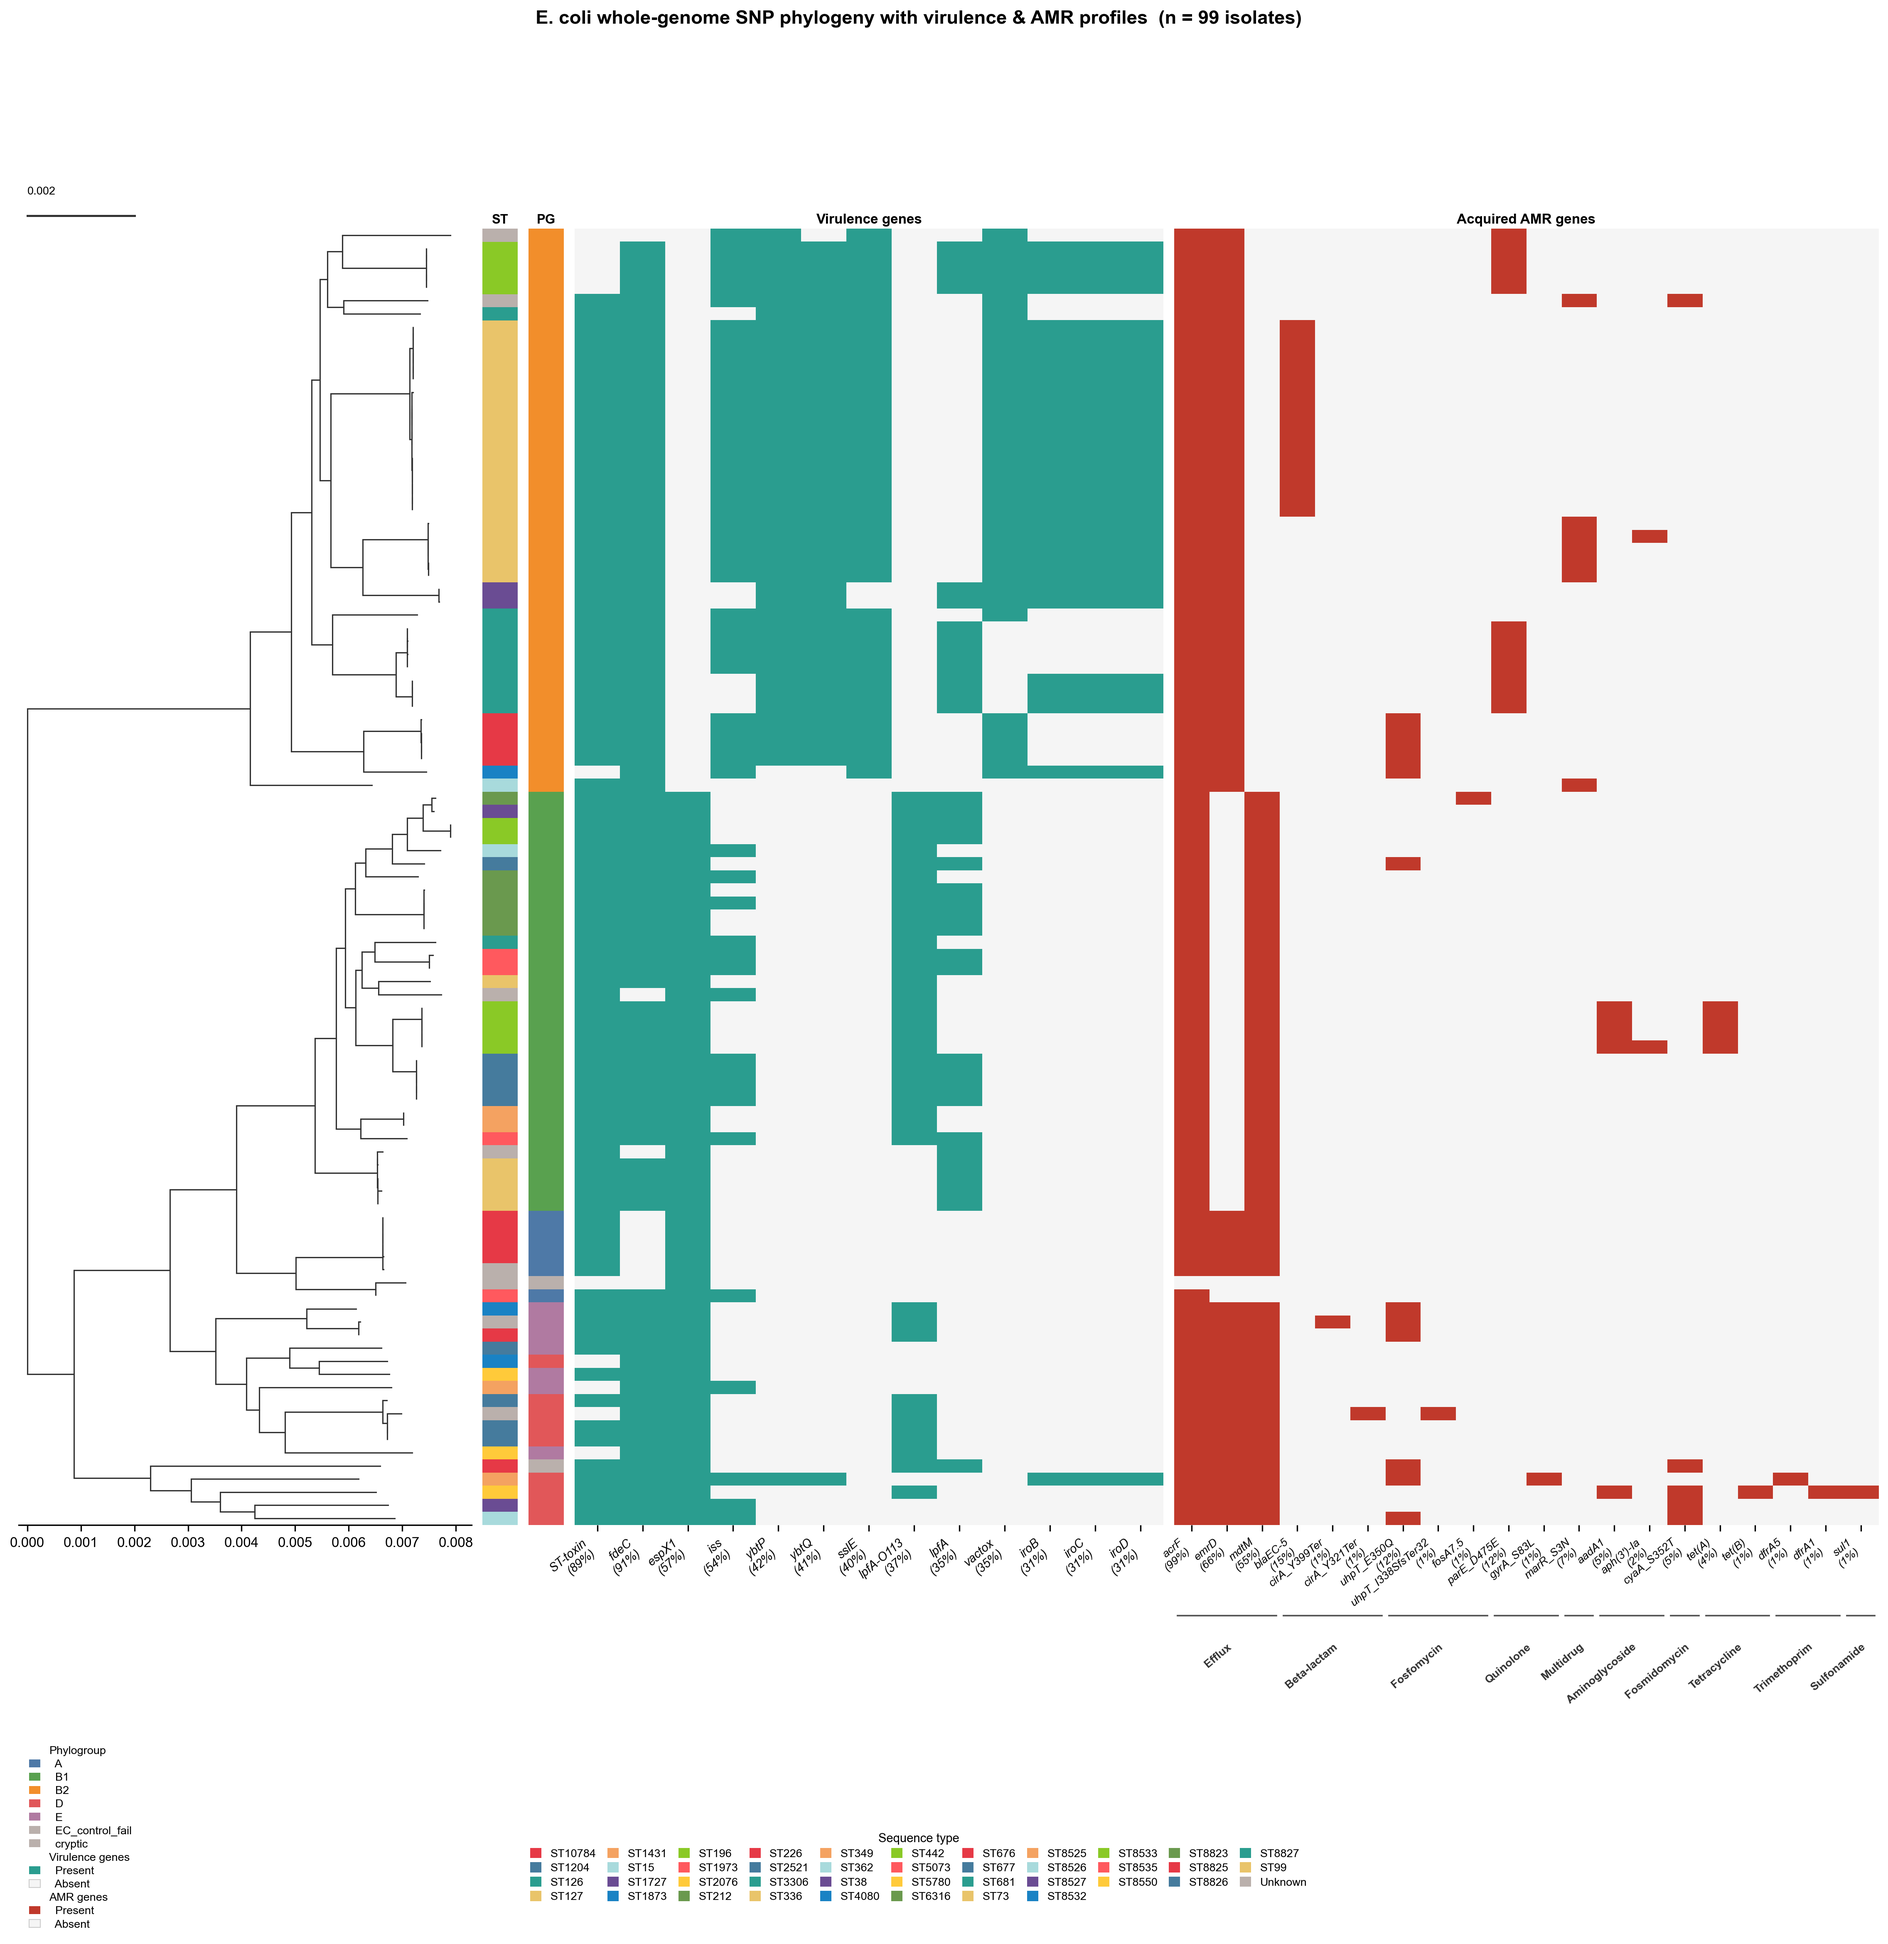
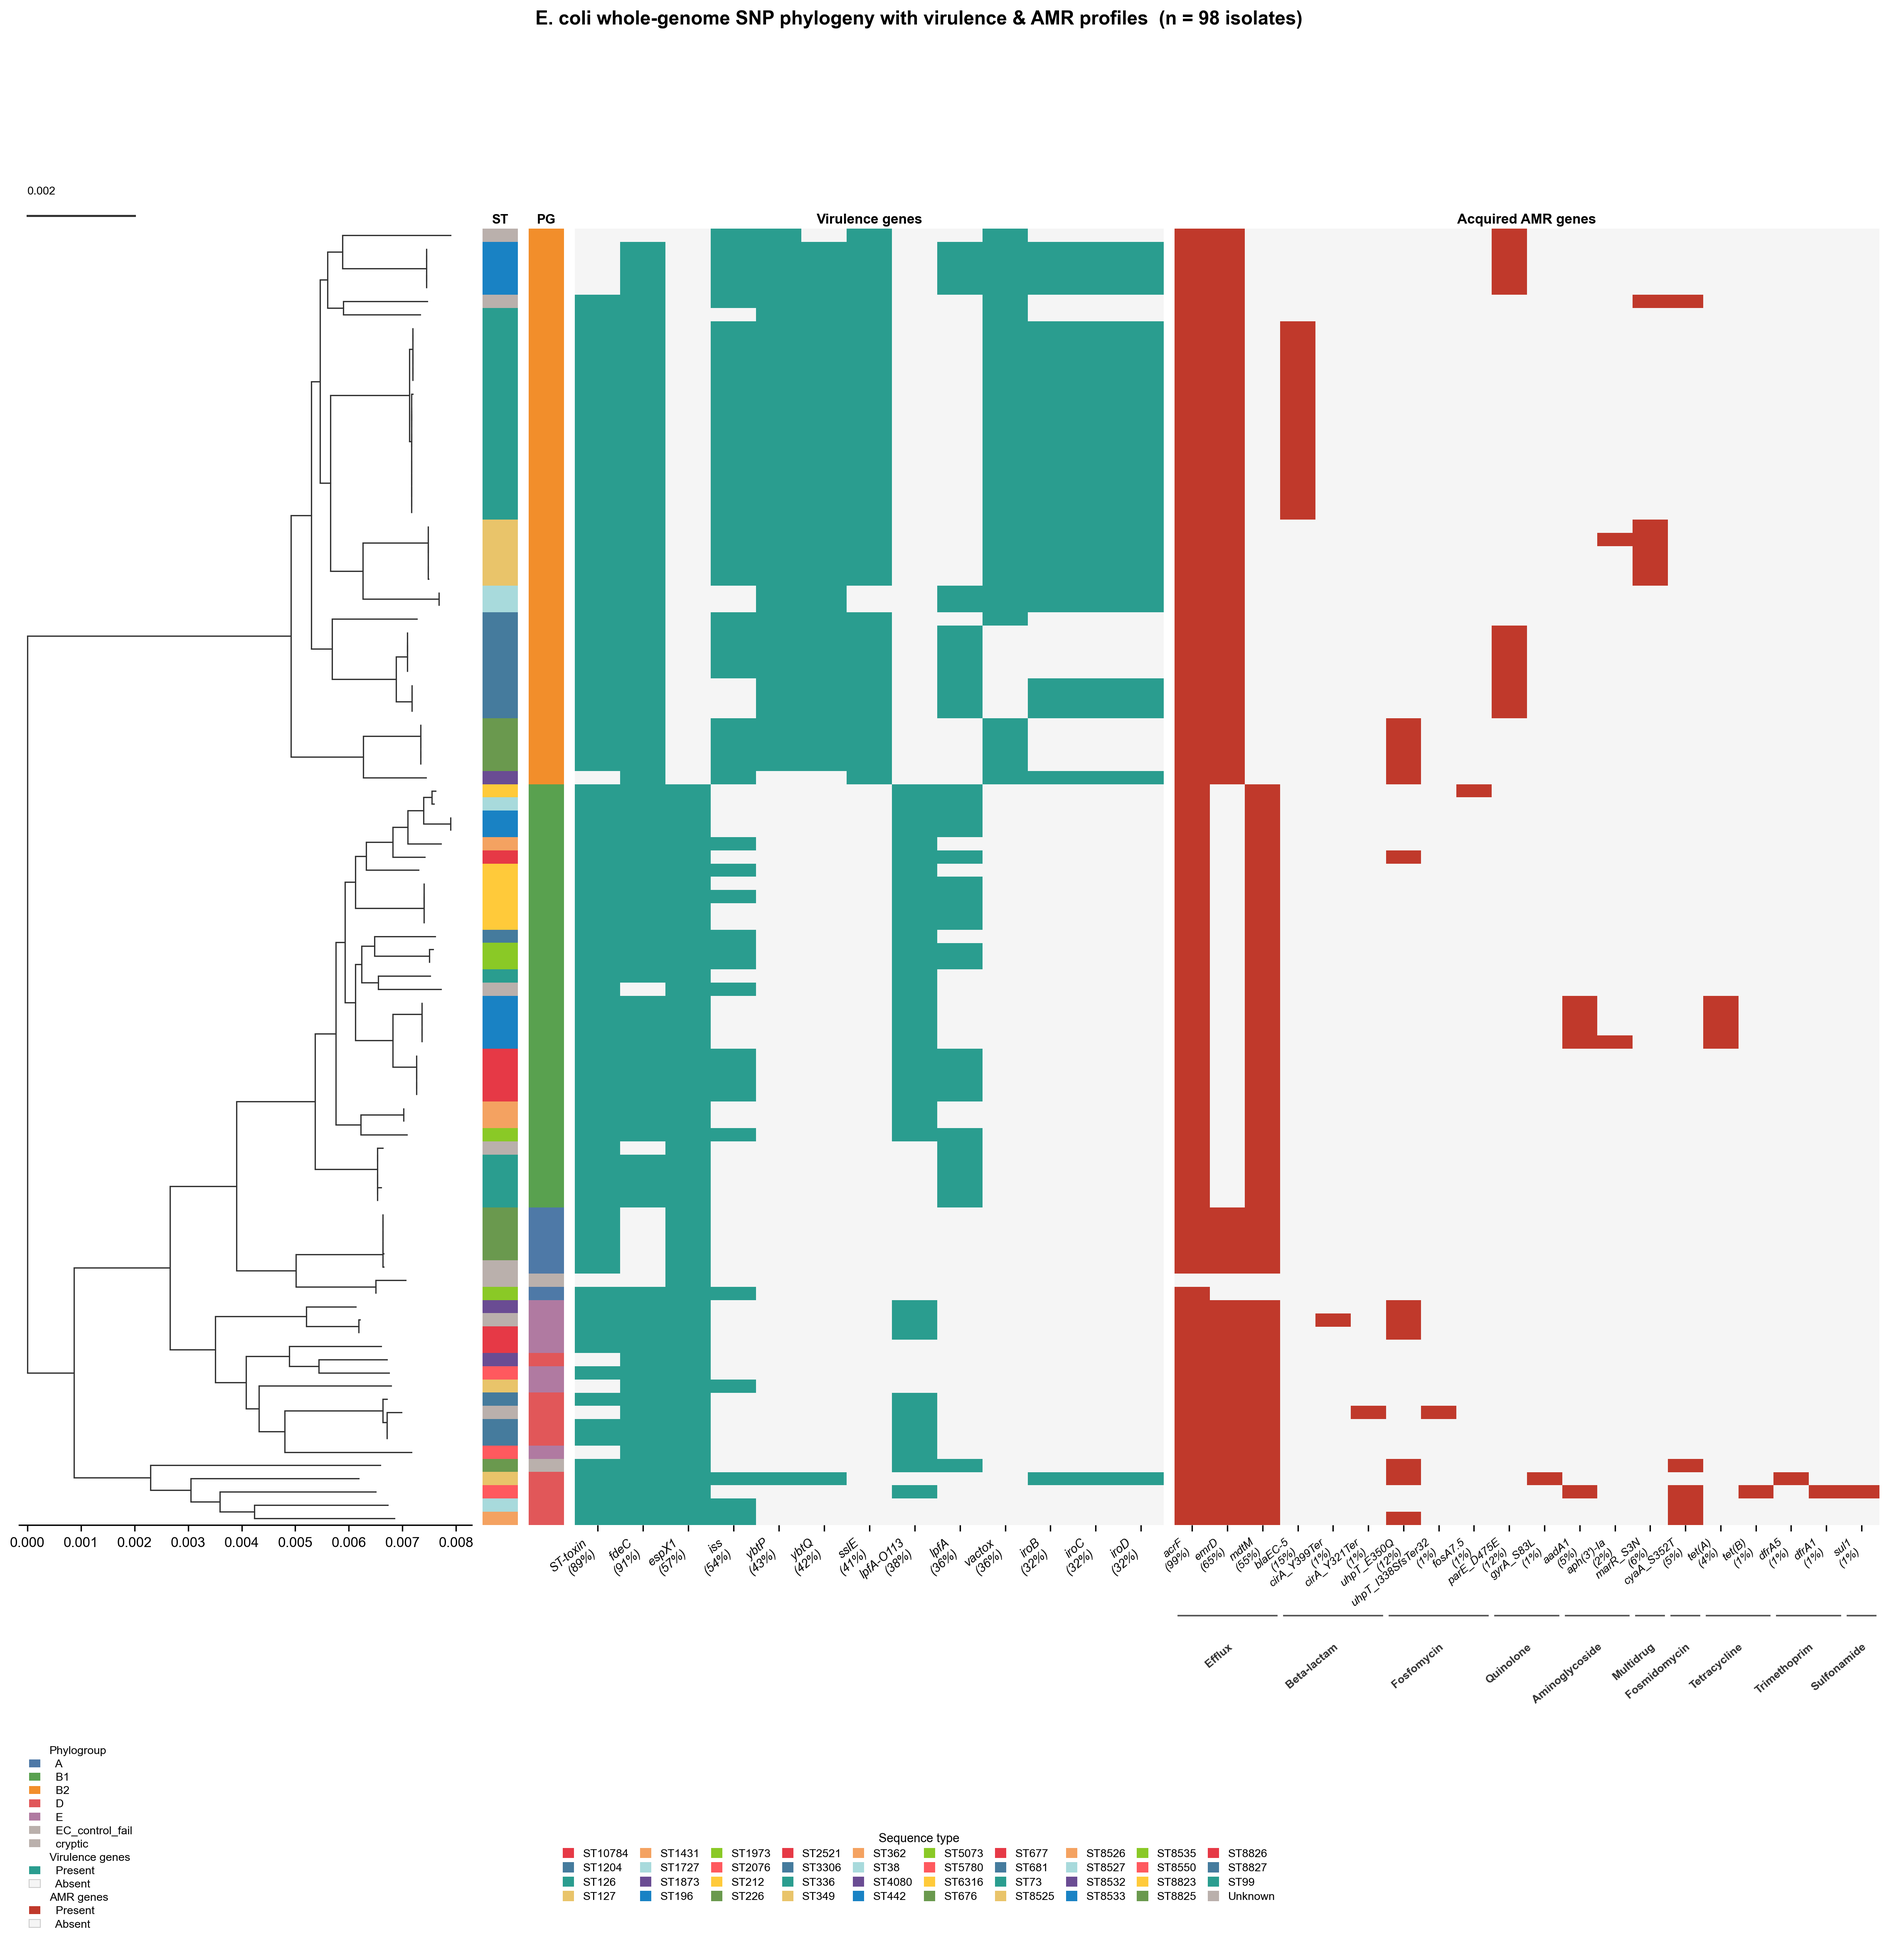
Remove E2348-69 reference strain from E. coli vignette (n=99 → n=98)
E2348-69 is an EPEC lab reference strain included in the Foster-Nyarko
BioProject but not an NHP isolate. Excluded from input, pruned from the
IQ-TREE phylogeny, and regenerated all plots (population summary, AMR
genes, plasmid replicons, virulence, tree annotation, SNP heatmap).
Vignette and README sample counts updated to n=98.

diff --git a/vignettes/ecoli_vignette.md b/vignettes/ecoli_vignette.md
@@ -1,7 +1,7 @@
-# Vignette: *Escherichia coli* — non-human primate gut isolates, The Gambia (n = 99)
+# Vignette: *Escherichia coli* — non-human primate gut isolates, The Gambia (n = 98)
 
 This vignette demonstrates the outputs produced by **enteric-typer** when run on
-99 *E. coli* genome assemblies from commensal gut isolates recovered from three
+98 *E. coli* genome assemblies from commensal gut isolates recovered from three
 non-human primate (NHP) species in The Gambia.
 
 ---
@@ -29,7 +29,7 @@ Sample names encode the host species prefix, field site code, and individual ID
 
 ### Individual sample accessions
 
-All 99 SRR run accessions are available from BioProject
+All 98 SRR run accessions are available from BioProject
 [PRJNA604701](https://www.ncbi.nlm.nih.gov/bioproject/PRJNA604701).
 A selection of representative accessions is shown below; the full list is
 available in the supplementary data of Foster-Nyarko et al. (2020).

diff --git a/README.md b/README.md
@@ -515,7 +515,7 @@ Example outputs from two real datasets:
 
 | Dataset | Species | Samples | Vignette |
 |---|---|---|---|
-| NHP gut isolates, The Gambia (Foster-Nyarko et al. 2020) | *Escherichia coli* | 99 | [View vignette](vignettes/ecoli_vignette.md) |
+| NHP gut isolates, The Gambia (Foster-Nyarko et al. 2020) | *Escherichia coli* | 98 | [View vignette](vignettes/ecoli_vignette.md) |
 | Clinical NTS isolates, The Gambia (Darboe et al. 2022) | *Salmonella enterica* | 99 | [View vignette](vignettes/salmonella_vignette.md) |
 
 ---
